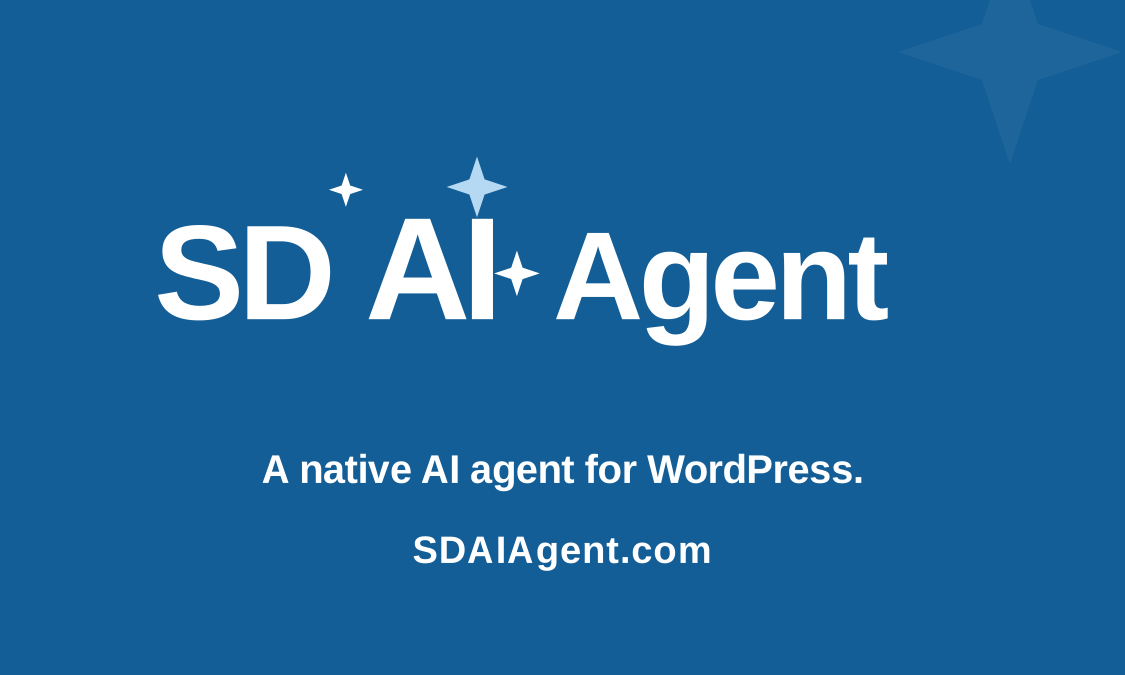
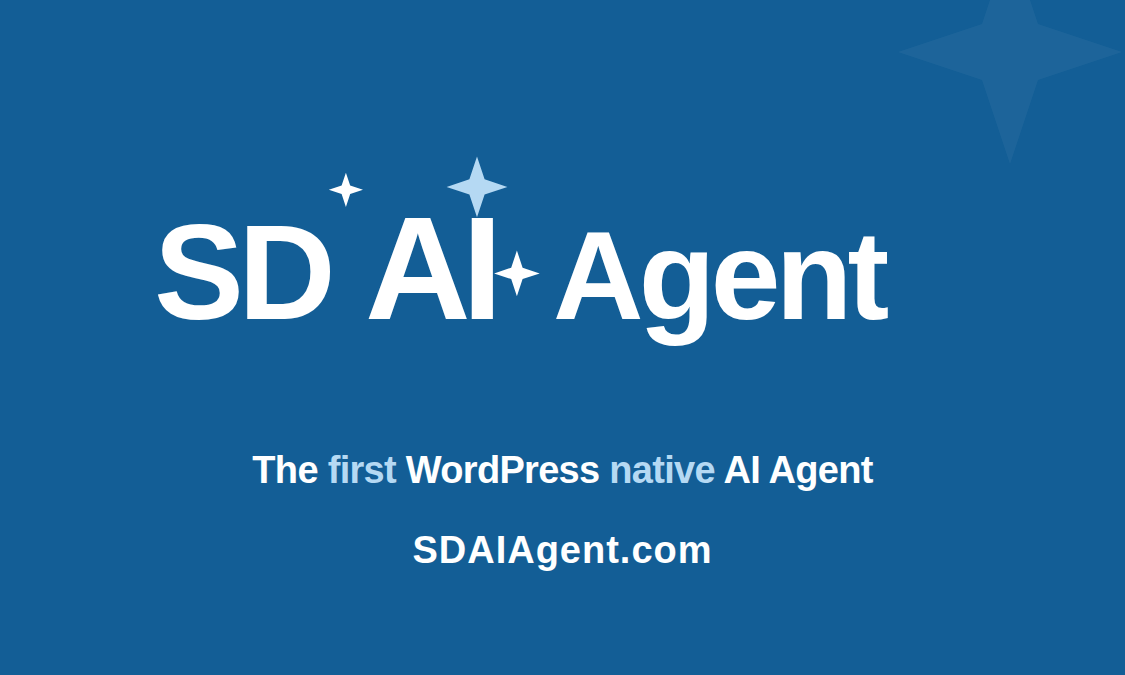
docs: emphasize WordCamp card positioning

Changed region(s): [[0.2178, 0.6533, 0.7778, 0.7467], [0.3733, 0.7778, 0.6222, 0.84], [0.6533, 0.3733, 0.7156, 0.4356]]

diff --git a/DESIGN.md b/DESIGN.md
@@ -401,8 +401,9 @@ WordPress admin visual language without changing the product UI rules above.
 - The canonical logo and WordCamp business-card sources live in
   `assets/brand/`. Preserve their stated clear space, bleed, trim, and safe-area
   rules when adapting them for other printed formats.
-- Event cards lead with the defensible tagline `A native AI agent for
-  WordPress.` and separate the product benefit from temporary promotional copy.
+- Event cards lead with the tagline `The first WordPress native AI Agent`, with
+  `first` and `native` emphasised, and separate the product benefit from
+  temporary promotional copy.
   Keep event-card body type at least 8pt, use a prominent human-readable
   destination, and distribute outlined final artwork while retaining separate
   live-text masters. Verify all offer terms and redemption details before each

diff --git a/assets/brand/README.md b/assets/brand/README.md
@@ -23,7 +23,7 @@ The front is intentionally sparse for fast brand recognition. The back uses a tw
 
 ### Final card copy
 
-- Tagline: `A native AI agent for WordPress.`
+- Tagline: `The first WordPress native AI Agent` (emphasise `first` and `native`)
 - Feature: `Free + open source plugin. Bring your AI provider.`
 - Comparison: `Like running Claude Code or Cursor inside WordPress admin.`
 - Offer: `Early adopters: $200 AI usage credit. Use promo code EARLY.`
